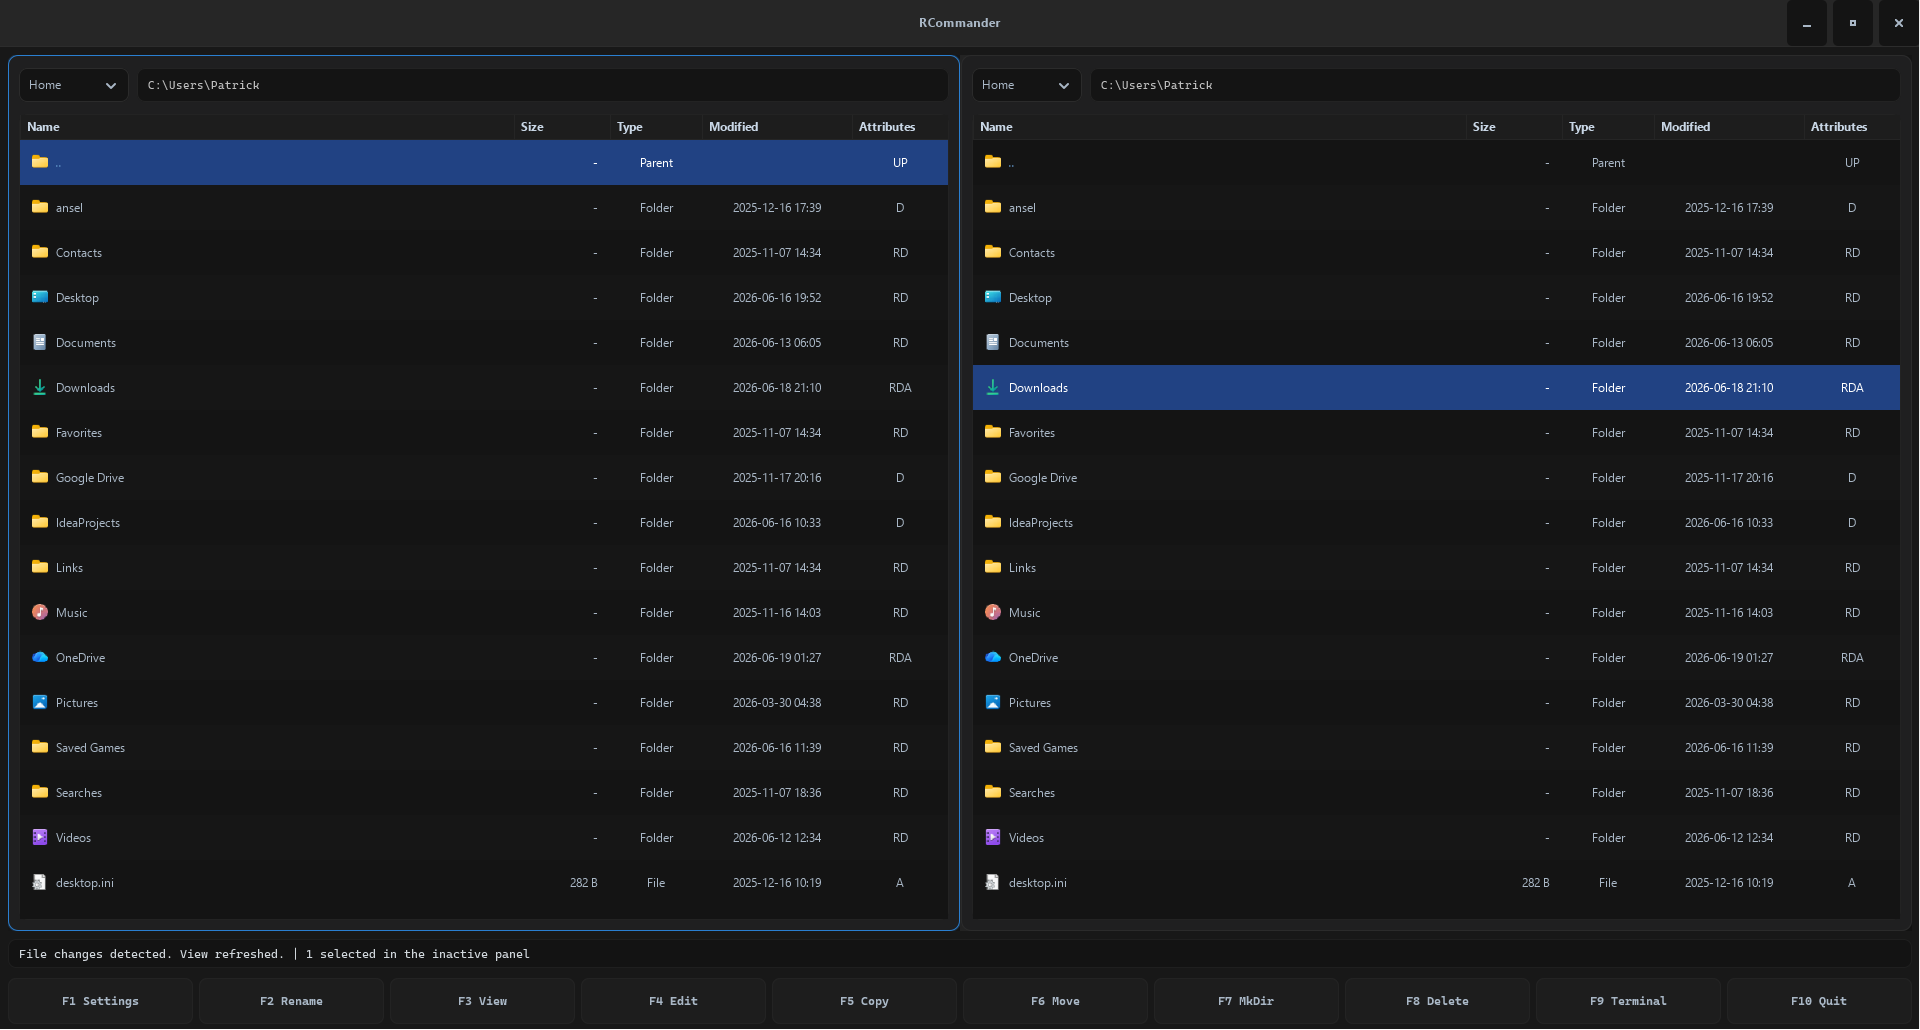
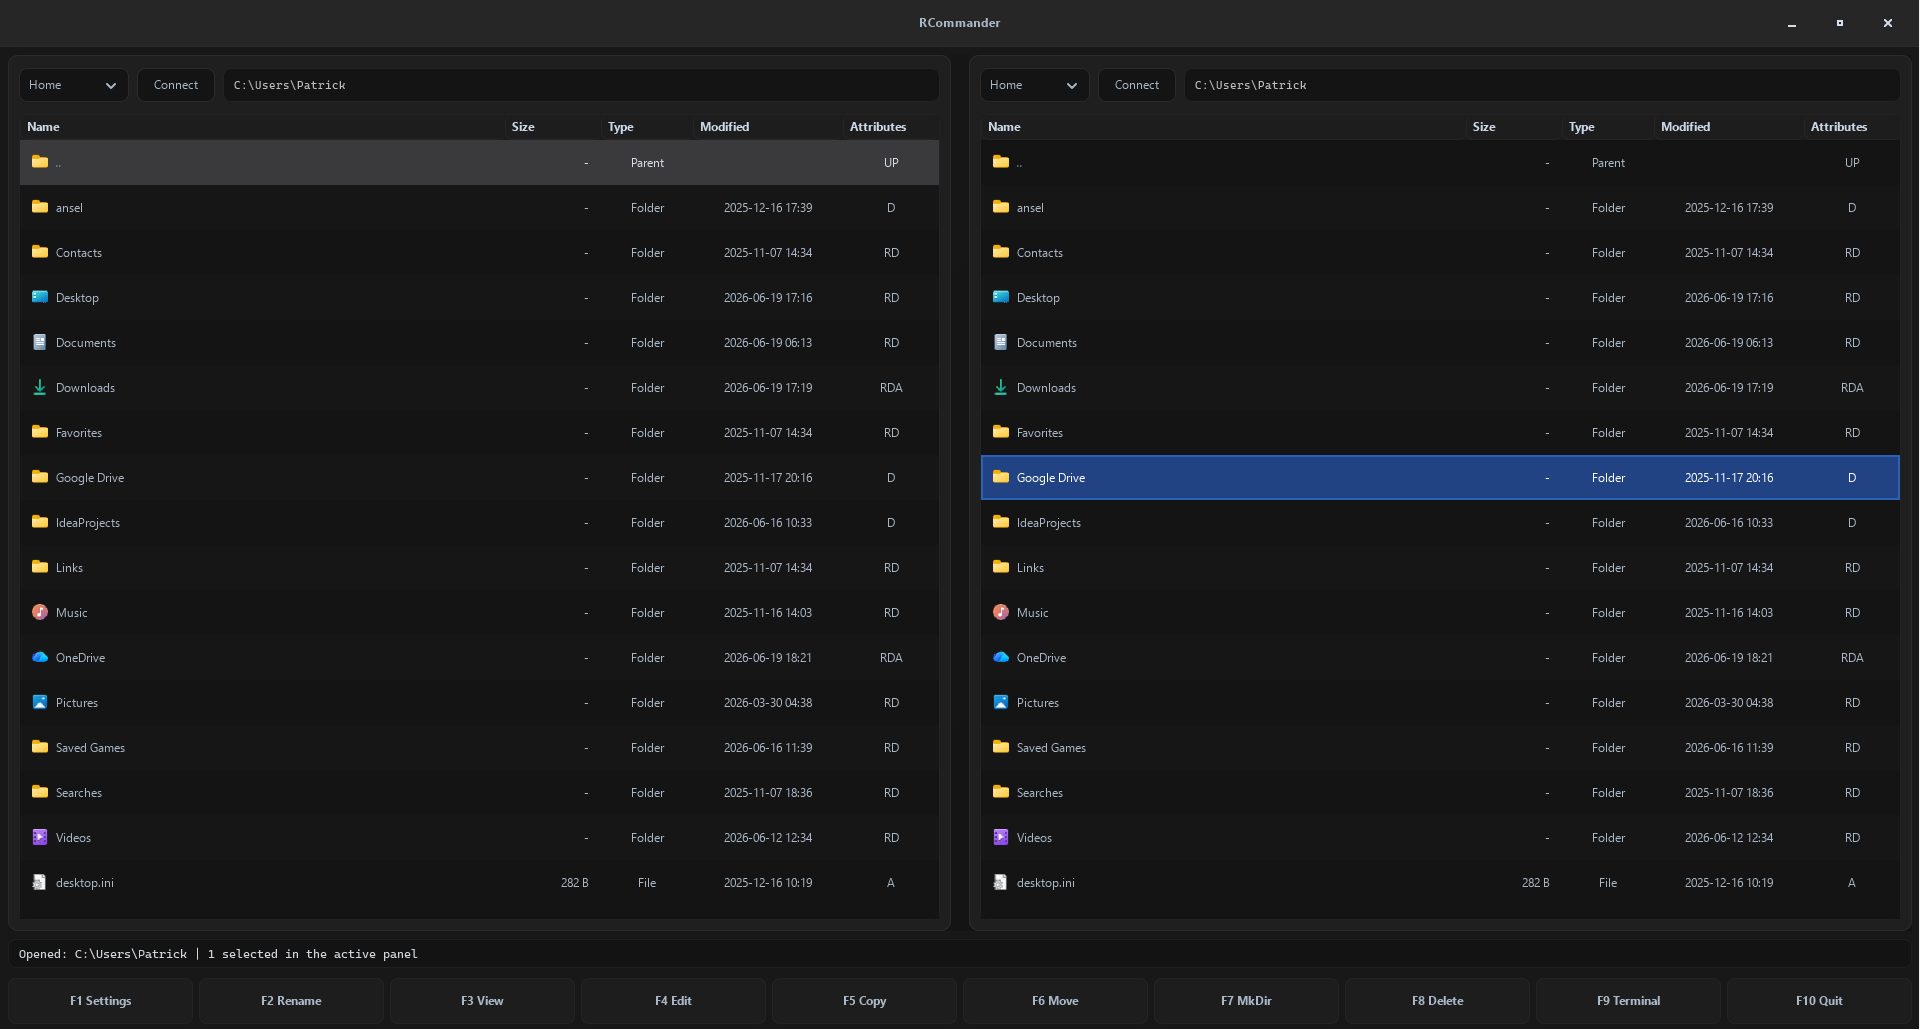
fix: claude review

diff --git a/src/fs/operations.rs b/src/fs/operations.rs
@@ -158,15 +158,27 @@ fn run_delete(
     };
 
     for source in &request.sources {
-        delete_path(
-            source,
-            &plan,
-            &mut progress,
-            started_at,
-            tx,
-            &request.kind,
-            cancelled,
-        )?;
+        if request.use_recycle_bin {
+            delete_via_recycle_bin(
+                source,
+                &plan,
+                &mut progress,
+                started_at,
+                tx,
+                &request.kind,
+                cancelled,
+            )?;
+        } else {
+            delete_path(
+                source,
+                &plan,
+                &mut progress,
+                started_at,
+                tx,
+                &request.kind,
+                cancelled,
+            )?;
+        }
 
         if cancelled.load(Ordering::Relaxed) {
             let _ = tx.send(OperationEvent::Cancelled(summary(
@@ -405,6 +417,29 @@ fn delete_path(
     fs::remove_file(path).with_context(|| format!("Could not delete file {}", path.display()))?;
     progress.processed_bytes += file_len;
     progress.processed_entries += 1;
+    send_progress(tx, kind.clone(), path, plan, progress, started_at);
+    Ok(())
+}
+
+#[allow(clippy::too_many_arguments)]
+fn delete_via_recycle_bin(
+    path: &Path,
+    plan: &OperationPlan,
+    progress: &mut CopyProgress,
+    started_at: Instant,
+    tx: &mpsc::Sender<OperationEvent>,
+    kind: &FileOperationKind,
+    cancelled: &Arc<AtomicBool>,
+) -> Result<()> {
+    if cancelled.load(Ordering::Relaxed) {
+        return Ok(());
+    }
+
+    let deleted = build_copy_plan(path)?;
+    trash::delete(path)
+        .with_context(|| format!("Could not move {} to the recycle bin", path.display()))?;
+    progress.processed_bytes += deleted.total_bytes;
+    progress.processed_entries += deleted.total_entries;
     send_progress(tx, kind.clone(), path, plan, progress, started_at);
     Ok(())
 }

diff --git a/src/archive/zip_backend.rs b/src/archive/zip_backend.rs
@@ -2,6 +2,7 @@ use std::{
     fs::{self, File},
     io,
     path::Path,
+    time::SystemTime,
 };
 
 use zip::ZipArchive;
@@ -58,12 +59,27 @@ impl ZipBackend {
             kind: Self::entry_kind(file),
             size: file.size(),
             packed_size: Some(file.compressed_size()),
-            modified_time: None,
+            modified_time: Self::modified_time(file),
             crc: Some(format!("{:08X}", file.crc32())),
             encrypted: false,
             method: Some(format!("{:?}", file.compression())),
             attributes: file.unix_mode().map(|mode| format!("{mode:o}")),
         })
+    }
+
+    fn modified_time(file: &zip::read::ZipFile<'_>) -> Option<SystemTime> {
+        let timestamp = file.last_modified();
+        let date = chrono::NaiveDate::from_ymd_opt(
+            timestamp.year().into(),
+            timestamp.month().into(),
+            timestamp.day().into(),
+        )?;
+        let datetime = date.and_hms_opt(
+            timestamp.hour().into(),
+            timestamp.minute().into(),
+            timestamp.second().into(),
+        )?;
+        Some(datetime.and_utc().into())
     }
 
     fn extract_selected(

diff --git a/src/fs/reader.rs b/src/fs/reader.rs
@@ -83,7 +83,7 @@ pub fn read_entry(path: &Path, show_hidden_files: bool) -> Result<Option<Entry>>
 }
 
 pub fn rename_path(source: &Path, target: &Path) -> Result<()> {
-    if target.exists() {
+    if target.exists() && !paths_resolve_to_same_entry(source, target) {
         anyhow::bail!("An entry with this name already exists");
     }
 
@@ -94,6 +94,16 @@ pub fn rename_path(source: &Path, target: &Path) -> Result<()> {
             target.display()
         )
     })
+}
+
+fn paths_resolve_to_same_entry(source: &Path, target: &Path) -> bool {
+    let Ok(source_path) = fs::canonicalize(source) else {
+        return false;
+    };
+    let Ok(target_path) = fs::canonicalize(target) else {
+        return false;
+    };
+    source_path == target_path
 }
 
 fn format_size(metadata: &fs::Metadata, is_dir: bool) -> String {

diff --git a/src/ui/operations.rs b/src/ui/operations.rs
@@ -72,7 +72,8 @@ pub fn prepare_operation(
     kind: FileOperationKind,
 ) -> Result<PreparedOperation> {
     let is_delete = matches!(kind, FileOperationKind::Delete);
-    let request = commander.operation_request(kind)?;
+    let mut request = commander.operation_request(kind)?;
+    request.use_recycle_bin = is_delete && file_operations.use_recycle_bin;
 
     if is_delete && !file_operations.confirm_delete {
         Ok(PreparedOperation::Start(request))

diff --git a/src/application/commander.rs b/src/application/commander.rs
@@ -293,6 +293,7 @@ impl Commander {
                 .filter_map(|item| item.filesystem_path.clone())
                 .collect(),
             target_directory,
+            use_recycle_bin: false,
             archive_source,
             remote_source,
             remote_target,

diff --git a/src/domain/operation.rs b/src/domain/operation.rs
@@ -18,6 +18,7 @@ pub struct FileOperationRequest {
     pub kind: FileOperationKind,
     pub sources: Vec<PathBuf>,
     pub target_directory: Option<PathBuf>,
+    pub use_recycle_bin: bool,
     pub archive_source: Option<ArchiveSourceRequest>,
     pub remote_source: Option<RemoteSourceRequest>,
     pub remote_target: Option<RemoteTargetRequest>,